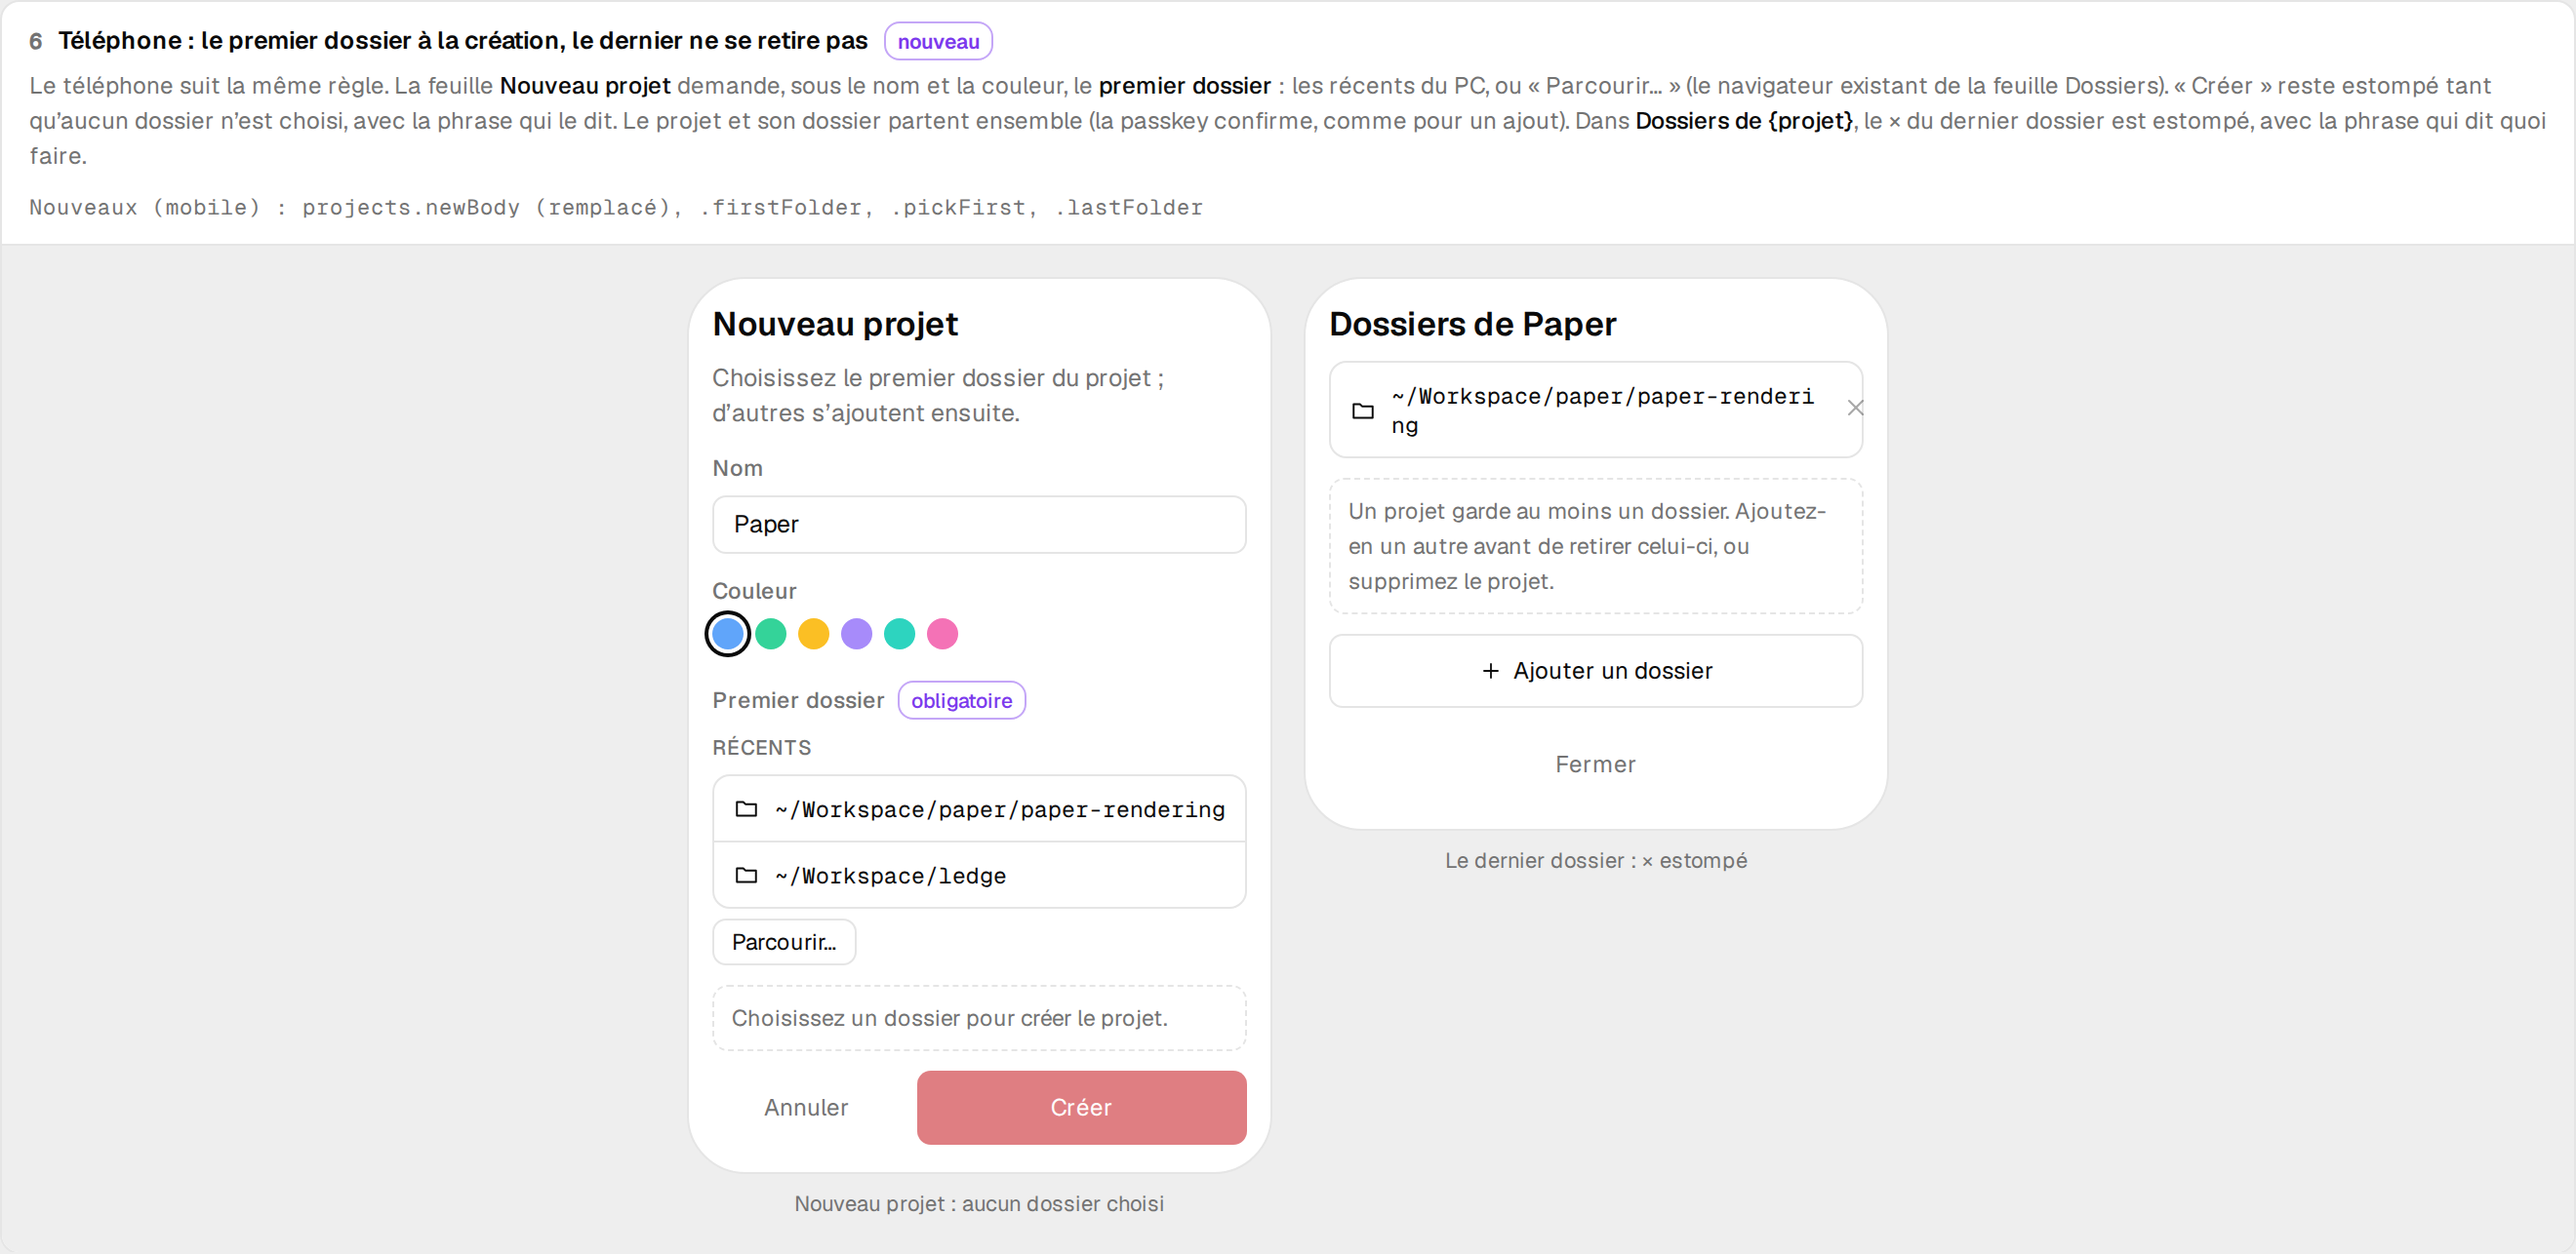
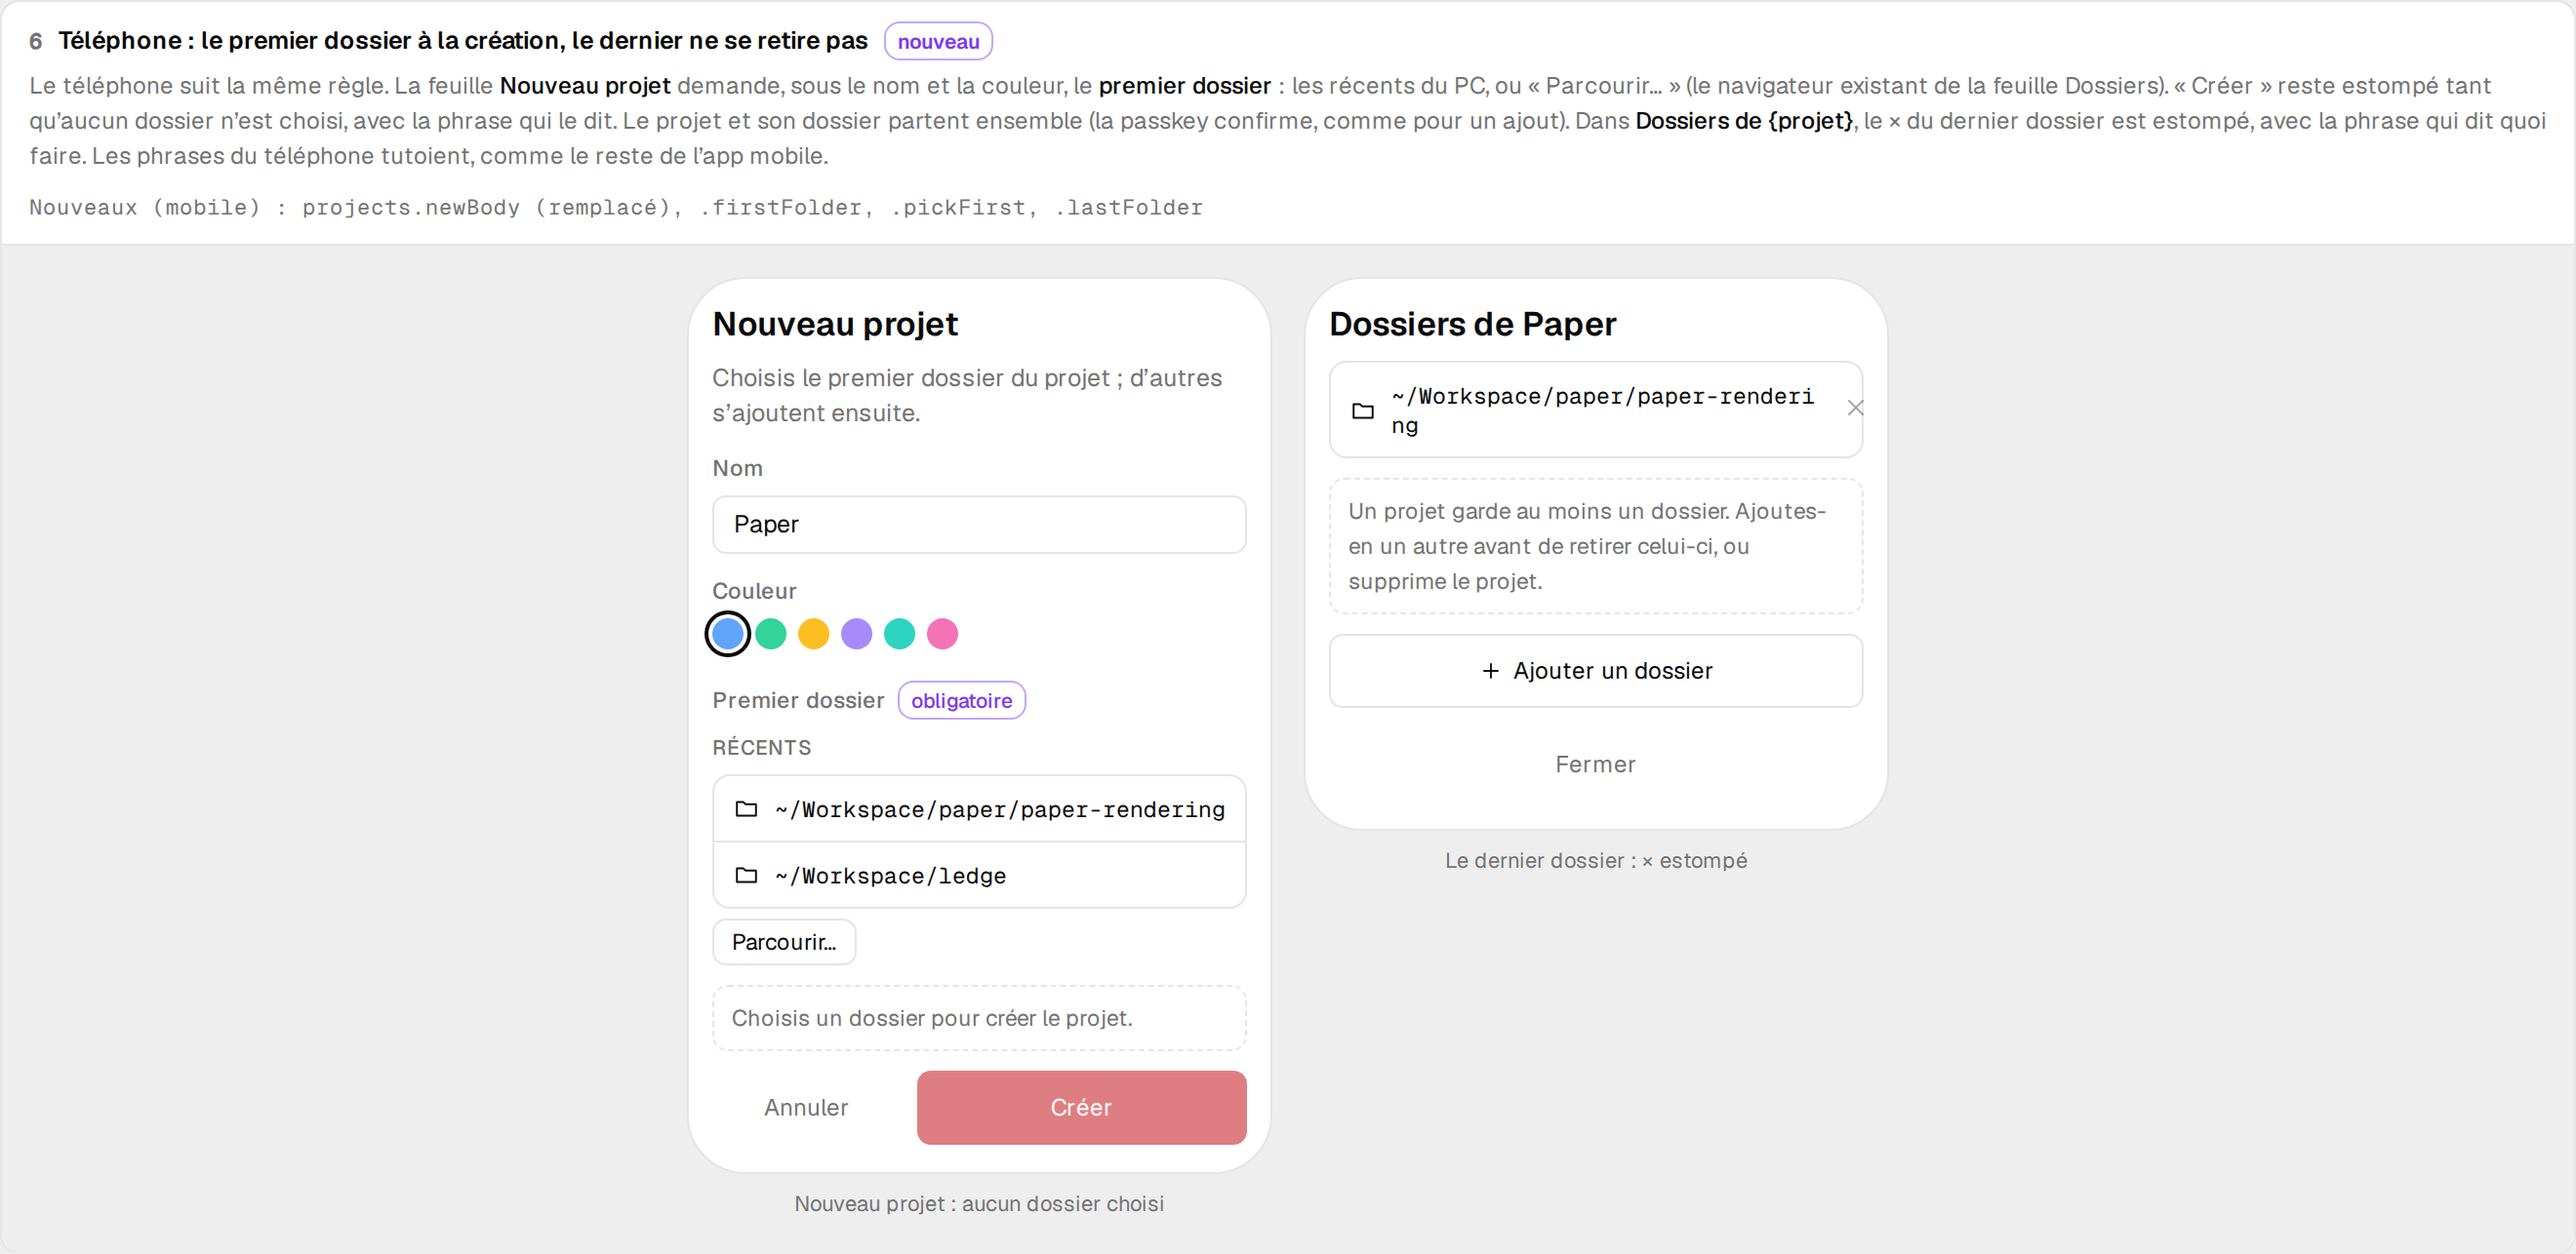
docs(mockups): #2 phone sentences say tu, as the mobile app

diff --git a/docs/mockups/ledge-project-folders.html b/docs/mockups/ledge-project-folders.html
@@ -182,8 +182,8 @@ const T = {
     bannerT:'Ce projet n’a aucun dossier.', bannerB:'Ajoutez-en un pour pouvoir enregistrer vos changements. Supprimer le projet reste possible.',
     setTitle:'Projets', setNote:'Chaque projet regroupe des dossiers ; ses sessions s’y rangent.', noRepo:'Aucun dossier : à compléter', addFolder:'Ajouter un dossier', edit:'Modifier', delete:'Supprimer', agents:n=>`${n} agent${n>1?'s':''}`,
     removed:'paper-rendering retiré.',
-    pNewBody:'Choisissez le premier dossier du projet ; d’autres s’ajoutent ensuite.', pFolder:'Premier dossier', pRecents:'Récents', pBrowse:'Parcourir…', pCreate:'Créer', pCancel:'Annuler', pPick:'Choisissez un dossier pour créer le projet.',
-    pFoldersTitle:n=>`Dossiers de ${n}`, pLast:'Un projet garde au moins un dossier. Ajoutez-en un autre avant de retirer celui-ci, ou supprimez le projet.', pAdd:'Ajouter un dossier', pClose:'Fermer',
+    pNewBody:'Choisis le premier dossier du projet ; d’autres s’ajoutent ensuite.', pFolder:'Premier dossier', pRecents:'Récents', pBrowse:'Parcourir…', pCreate:'Créer', pCancel:'Annuler', pPick:'Choisis un dossier pour créer le projet.',
+    pFoldersTitle:n=>`Dossiers de ${n}`, pLast:'Un projet garde au moins un dossier. Ajoutes-en un autre avant de retirer celui-ci, ou supprime le projet.', pAdd:'Ajouter un dossier', pClose:'Fermer',
   },
   en: {
     h1:'Projects — folders required, and visible', hsub:'Issue kl-ledge/ledge#2. For the user to validate.',
@@ -266,7 +266,7 @@ function cards(){
     </div><div class="cap">${F?'Réglages › Projets':'Settings › Projects'}</div></div>
     <div>${dlg(x.editTitle('Speos'), `<div class="banner">${svg(I.alert,14)}<div><b>${x.bannerT}</b><p>${x.bannerB}</p></div></div>${identity('Speos', '')}${folders({picker:{}})}`, foot({name:'Speos', edit:true}))}<div class="cap">${F?'Modifier un projet sans dossier : le navigateur ouvert, Supprimer reste là':'Editing a project without a folder: the browser open, Delete still there'}</div></div>`});
   C.push({title:F?'Téléphone : le premier dossier à la création, le dernier ne se retire pas':'Phone: the first folder at creation, the last one cannot be removed',
-    why:`Le téléphone suit la même règle. La feuille <b>Nouveau projet</b> demande, sous le nom et la couleur, le <b>premier dossier</b> : les récents du PC, ou « Parcourir… » (le navigateur existant de la feuille Dossiers). « Créer » reste estompé tant qu’aucun dossier n’est choisi, avec la phrase qui le dit. Le projet et son dossier partent ensemble (la passkey confirme, comme pour un ajout). Dans <b>Dossiers de {projet}</b>, le × du dernier dossier est estompé, avec la phrase qui dit quoi faire.`,
+    why:`Le téléphone suit la même règle. La feuille <b>Nouveau projet</b> demande, sous le nom et la couleur, le <b>premier dossier</b> : les récents du PC, ou « Parcourir… » (le navigateur existant de la feuille Dossiers). « Créer » reste estompé tant qu’aucun dossier n’est choisi, avec la phrase qui le dit. Le projet et son dossier partent ensemble (la passkey confirme, comme pour un ajout). Dans <b>Dossiers de {projet}</b>, le × du dernier dossier est estompé, avec la phrase qui dit quoi faire. Les phrases du téléphone tutoient, comme le reste de l’app mobile.`,
     keys:F?'Nouveaux (mobile) : projects.newBody (remplacé), .firstFolder, .pickFirst, .lastFolder':'New (mobile): projects.newBody (replaced), .firstFolder, .pickFirst, .lastFolder',
     scene: `<div><div class="phone"><h4>${x.newTitle}</h4><span class="pb">${x.pNewBody}</span><div class="field"><span class="lab">${x.name}</span><div class="in">Paper</div></div><div class="field"><span class="lab">${x.color}</span><div class="colors">${COLORS.slice(0,6).map((c,i)=>`<i class="${i===0?'on':''}" style="background:${c}"></i>`).join('')}</div></div>
       <div class="field"><span class="lab">${x.pFolder} <span class="req">${x.required}</span></span><span class="sub">${x.pRecents}</span><div class="lst"><div>${svg(I.folder)}<span>~/Workspace/paper/paper-rendering</span></div><div>${svg(I.folder)}<span>~/Workspace/ledge</span></div></div><button class="btn sm outline" style="align-self:flex-start">${x.pBrowse}</button></div>
